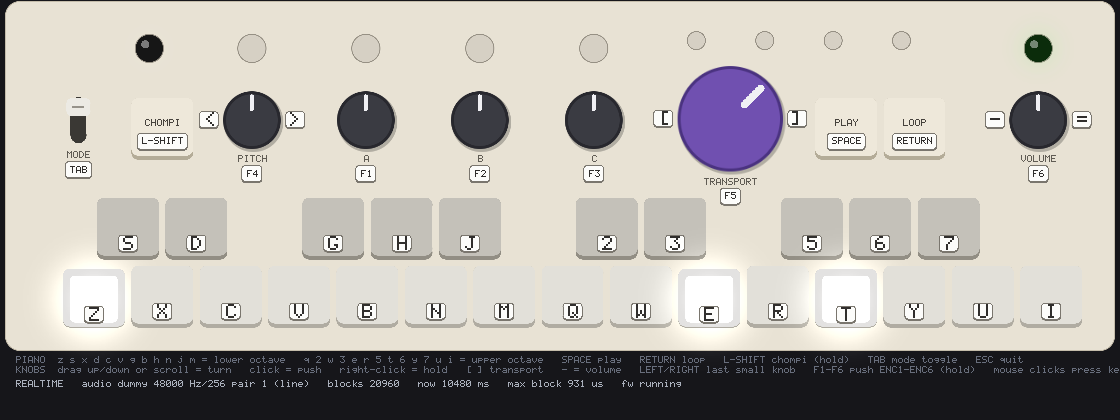
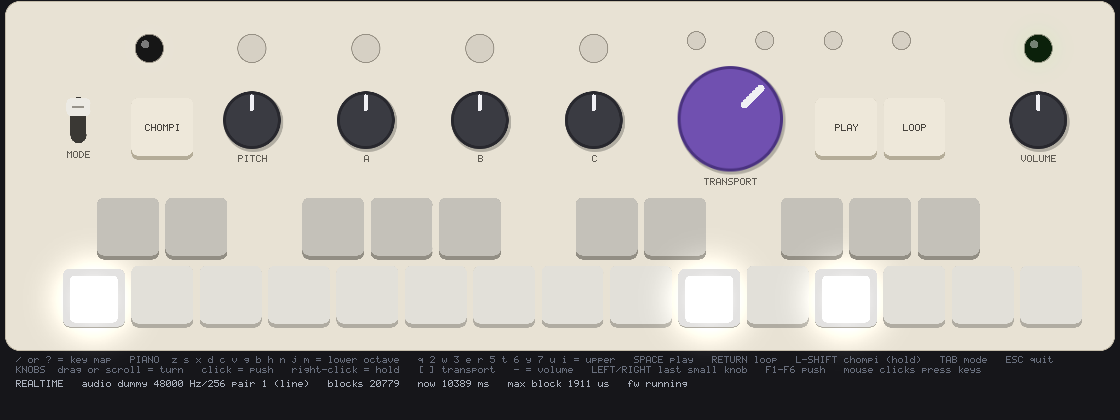
GUI: key map overlay with callouts and arrows, toggled with / or ?
The computer-key labels become an overlay: it shades the instrument, prints
each piano key's letter on its cap and draws a description box for every
switch and knob with an arrow from the box to the control. The boxes sit in
two free bands, above the LED row and between the knobs and the upper caps,
and arrows that would cross an LED leave the box off centre and land on the
knob's shoulder. The arrow-key note moves to the small knob touched last.
The overlay is shown at start, / or ? toggles it and --no-keymap starts
without it. Lines and arrows are runs of the anti-aliased disc sprite, so
no new dependency. Hint lines shortened to fit the window; screenshots
regenerated.

Claude-Session: https://claude.ai/code/session_01Dp3X1K9YrRtikm9LtFwPLs

diff --git a/frontends/sdl/panel.cpp b/frontends/sdl/panel.cpp
@@ -158,10 +158,15 @@ constexpr float kLogY    = 392;
 constexpr float kLogDy   = 10;
 constexpr float kTextX   = 16;
 
-const char* const kHint1 = "PIANO  z s x d c v g b h n j m = lower octave   q 2 w 3 e r 5 t 6 y 7 u i = upper octave   "
-                           "SPACE play   RETURN loop   L-SHIFT chompi (hold)   TAB mode toggle   ESC quit";
-const char* const kHint2 = "KNOBS  drag up/down or scroll = turn   click = push   right-click = hold   [ ] transport   - = volume   "
-                           "LEFT/RIGHT last small knob   F1-F6 push ENC1-ENC6 (hold)   mouse clicks press keys";
+const char* const kHint1 = "/ or ? = key map   PIANO  z s x d c v g b h n j m = lower octave   q 2 w 3 e r 5 t 6 y 7 u i = upper   "
+                           "SPACE play   RETURN loop   L-SHIFT chompi (hold)   TAB mode   ESC quit";
+const char* const kHint2 = "KNOBS  drag or scroll = turn   click = push   right-click = hold   [ ] transport   - = volume   "
+                           "LEFT/RIGHT last small knob   F1-F6 push   mouse clicks press keys";
+/** Hint lines while the key map overlay is up. */
+const char* const kMapHint1 = "KEY MAP   the letters on the caps play the notes (two octaves)   LEFT/RIGHT arrows turn the small knob "
+                              "touched last   / or ? hides this map";
+const char* const kMapHint2 = "MOUSE   click or hold any key   drag up/down or scroll on a knob = turn   click a knob = push   "
+                              "right-click = hold   ESC quit";
 
 // ---------------------------------------------------------------------------
 // Colours: a cream enclosure with white caps, like the instrument. No artwork
@@ -195,11 +200,18 @@ constexpr SDL_Color kToggleGrip  = {150, 146, 138, 255};
 constexpr SDL_Color kHintColor   = {104, 110, 124, 255};
 constexpr SDL_Color kStatusColor = {170, 176, 188, 255};
 constexpr SDL_Color kLogColor    = {120, 170, 226, 255};
-constexpr SDL_Color kChipFace    = {252, 252, 250, 255};
-constexpr SDL_Color kChipEdge    = {122, 118, 110, 255};
-constexpr SDL_Color kChipText    = {48, 46, 44, 255};
-constexpr float     kChipH       = 18.f; /**< height of a computer-key chip */
+
+/** Key map overlay: dark boxes with light names and amber keys and arrows. */
+constexpr SDL_Color kMapBox      = {30, 32, 40, 242};
+constexpr SDL_Color kMapEdge     = {118, 122, 138, 255};
+constexpr SDL_Color kMapText     = {236, 236, 230, 255};
+constexpr SDL_Color kMapKey      = {255, 212, 118, 255};
+constexpr SDL_Color kMapArrow    = {255, 186, 76, 255};
+constexpr uint8_t   kMapDim      = 64;   /**< alpha of the shade over the instrument */
+constexpr float     kChipH       = 18.f; /**< height of a computer-key chip on a cap */
 constexpr float     kLabelH      = 7.f;  /**< height of the 1 px label font */
+constexpr float     kMapPad      = 4.f;  /**< padding inside a callout box */
+constexpr float     kMapLineGap  = 3.f;  /**< gap between the two lines of a callout */
 
 SDL_Color Scaled(SDL_Color c, float f)
 {
@@ -308,6 +320,32 @@ class Canvas
         DrawText(r_, dx, int(std::lround(y * scale_)), dpx, c, s);
     }
 
+    /** A line of width w, drawn as a run of discs so it is anti-aliased. */
+    void Line(float x1, float y1, float x2, float y2, float w, SDL_Color c)
+    {
+        float dx = x2 - x1, dy = y2 - y1, len = std::sqrt(dx * dx + dy * dy);
+        int   n = std::max(1, int(std::ceil(len / 0.75f)));
+        for(int i = 0; i <= n; i++)
+        {
+            float t = float(i) / float(n);
+            Disc(x1 + dx * t, y1 + dy * t, w / 2, c);
+        }
+    }
+
+    /** An arrow from a dot at (x1, y1) to a tip at (x2, y2). */
+    void Arrow(float x1, float y1, float x2, float y2, SDL_Color c)
+    {
+        float dx = x2 - x1, dy = y2 - y1, len = std::sqrt(dx * dx + dy * dy);
+        if(len < 1.f)
+            return;
+        float           ux = dx / len, uy = dy / len;
+        constexpr float h = 8.f, s = 0.5f; // head length and half-width
+        Line(x1, y1, x2 - ux * 3.f, y2 - uy * 3.f, 2.f, c);
+        Line(x2, y2, x2 - ux * h - uy * h * s, y2 - uy * h + ux * h * s, 2.f, c);
+        Line(x2, y2, x2 - ux * h + uy * h * s, y2 - uy * h - ux * h * s, 2.f, c);
+        Disc(x1, y1, 2.5f, c);
+    }
+
   private:
     static constexpr int   kSprite    = 128;
     static constexpr float kDiscR     = 60.f;
@@ -409,22 +447,6 @@ void DrawLed(Canvas& cv, float cx, float cy, float r, Rgb c)
     cv.Disc(cx - r * 0.3f, cy - r * 0.3f, r * 0.3f, SDL_Color{255, 255, 255, 110});
 }
 
-/** The computer key for a control: a small key-shaped chip with the key's
- *  name, centred on (cx, cy). A single character is drawn large, a key name
- *  small. */
-void DrawKeyChip(Canvas& cv, float cx, float cy, const char* name)
-{
-    if(!name || !*name)
-        return;
-    const std::string s(name);
-    const int         px = s.size() == 1 ? 2 : 1;
-    const float       tw = float(TextWidth(s, px)), th = float(TextHeight(px));
-    const float       w  = std::max(kChipH, tw + 10.f);
-    cv.RoundRect(cx - w / 2, cy - kChipH / 2, w, kChipH, 4.f, kChipEdge);
-    cv.RoundRect(cx - w / 2 + 1, cy - kChipH / 2 + 1, w - 2, kChipH - 3, 3.f, kChipFace);
-    cv.Text(cx, cy - th / 2 - 1, px, kChipText, s, 0);
-}
-
 void DrawPianoKeys(Canvas& cv, const UiState& st)
 {
     for(int semi = 0; semi < 25; semi++)
@@ -448,7 +470,6 @@ void DrawPianoKeys(Canvas& cv, const UiState& st)
             cv.RoundRect(r.x + in, r.y + in + dy, r.w - 2 * in, r.h - 2 * in - kKeyLipH + (pressed ? 3.f : 0.f), kCapRad - 2, lit);
             cv.Glow(r.x + r.w / 2, r.y + r.h / 2 + dy, r.w * 0.55f, led, 0.5f, true);
         }
-        DrawKeyChip(cv, r.x + r.w / 2, r.y + r.h - kKeyLipH - kChipH / 2 - 3 + dy, kPianoKeyNames[semi]);
     }
 }
 
@@ -471,23 +492,8 @@ void DrawKnob(Canvas& cv, const KnobDef& k, const UiState& st)
     for(float t = 0.38f; t <= 0.86f; t += 0.04f)
         cv.Disc(cx + sx * t * r, cy + sy * t * r, pw, kPointer);
 
-    cv.Text(cx, cy + R + 6, 1, kLabel, k.label, 0);
-
-    // computer keys: the push key under the label, the turn keys either side
-    // of the knob (the arrow keys follow the small knob touched last)
-    DrawKeyChip(cv, cx, cy + R + 6 + kLabelH + kChipH / 2 + 3, k.push_key);
-    const char* ccw = k.ccw_key;
-    const char* cw  = k.cw_key;
-    if(!ccw && st.arrow_knob == k.enc)
-    {
-        ccw = "<";
-        cw  = ">";
-    }
-    if(ccw && cw)
-    {
-        DrawKeyChip(cv, cx - R - kChipH * 0.8f, cy, ccw);
-        DrawKeyChip(cv, cx + R + kChipH * 0.8f, cy, cw);
-    }
+    if(!st.keymap) // the key map names the knobs in its callouts
+        cv.Text(cx, cy + R + 6, 1, kLabel, k.label, 0);
 }
 
 void DrawFuncKey(Canvas& cv, const FuncKeyDef& f, const UiState& st)
@@ -497,8 +503,7 @@ void DrawFuncKey(Canvas& cv, const FuncKeyDef& f, const UiState& st)
     bool      hover   = st.hover == Hit{HitKind::FuncKey, f.button};
     float     dy      = pressed ? kKeyPressDy : 0.f;
     DrawKeyCap(cv, r, kFuncFace, kFuncSide, pressed, hover);
-    cv.Text(r.x + r.w / 2, r.y + r.h / 2 - 10 + dy, 1, kFuncText, f.label, 0);
-    DrawKeyChip(cv, r.x + r.w / 2, r.y + r.h / 2 + 13 + dy, f.key);
+    cv.Text(r.x + r.w / 2, r.y + r.h / 2 - 5 + dy, 1, kFuncText, f.label, 0);
 }
 
 void DrawToggle(Canvas& cv, const UiState& st)
@@ -511,14 +516,14 @@ void DrawToggle(Canvas& cv, const UiState& st)
     float ty = down ? cy + t.h / 2 - t.thumb_h - 1 : cy - t.h / 2 + 1;
     cv.RoundRect(cx - t.thumb_w / 2, ty, t.thumb_w, t.thumb_h, 5, hover ? Scaled(kToggleThumb, 1.04f) : kToggleThumb);
     cv.FillRect(cx - t.thumb_w / 2 + 6, ty + t.thumb_h / 2 - 1, t.thumb_w - 12, 2, kToggleGrip);
-    cv.Text(cx, cy + t.h / 2 + 8, 1, kLabel, "MODE", 0);
-    DrawKeyChip(cv, cx, cy + t.h / 2 + 8 + kLabelH + kChipH / 2 + 3, "TAB");
+    if(!st.keymap)
+        cv.Text(cx, cy + t.h / 2 + 8, 1, kLabel, "MODE", 0);
 }
 
 void DrawTextArea(Canvas& cv, const UiState& st)
 {
-    cv.Text(kTextX, kHintY1, 1, kHintColor, kHint1);
-    cv.Text(kTextX, kHintY2, 1, kHintColor, kHint2);
+    cv.Text(kTextX, kHintY1, 1, kHintColor, st.keymap ? kMapHint1 : kHint1);
+    cv.Text(kTextX, kHintY2, 1, kHintColor, st.keymap ? kMapHint2 : kHint2);
     cv.Text(kTextX, kStatusY, 1, kStatusColor, st.status);
     float y = kLogY;
     for(const std::string& line : st.log)
@@ -526,6 +531,98 @@ void DrawTextArea(Canvas& cv, const UiState& st)
         cv.Text(kTextX, y, 1, kLogColor, "> " + line);
         y += kLogDy;
     }
+}
+
+// ---------------------------------------------------------------------------
+// Key map overlay: the computer keys, drawn over a shaded instrument. The
+// piano caps carry their letters; every other control gets a description box
+// with an arrow to it.
+// ---------------------------------------------------------------------------
+
+/** A key-shaped chip with a computer key's name, centred on (cx, cy). A
+ *  single character is drawn large, a key name small. */
+void DrawKeyChip(Canvas& cv, float cx, float cy, const char* name)
+{
+    if(!name || !*name)
+        return;
+    const std::string s(name);
+    const int         px = s.size() == 1 ? 2 : 1;
+    const float       tw = float(TextWidth(s, px)), th = float(TextHeight(px));
+    const float       w  = std::max(kChipH, tw + 10.f);
+    cv.RoundRect(cx - w / 2 - 1, cy - kChipH / 2 - 1, w + 2, kChipH + 2, 5.f, kMapEdge);
+    cv.RoundRect(cx - w / 2, cy - kChipH / 2, w, kChipH, 4.f, kMapBox);
+    cv.Text(cx, cy - th / 2, px, kMapKey, s, 0);
+}
+
+/** A description box (name, keys) with an arrow from one of its edges to a
+ *  point on the control. */
+struct Callout
+{
+    std::string name;
+    std::string keys;
+    float       cx;    /**< box centre x */
+    float       top;   /**< box top y */
+    float       ax;    /**< x where the arrow leaves the box */
+    bool        below; /**< the arrow leaves the bottom edge (else the top edge) */
+    float       tx, ty; /**< arrow tip */
+};
+
+void DrawCallout(Canvas& cv, const Callout& c)
+{
+    const float w = float(std::max(TextWidth(c.name, 1), TextWidth(c.keys, 1))) + 2 * kMapPad + 2;
+    const float h = 2 * kLabelH + kMapLineGap + 2 * kMapPad;
+    const float x = c.cx - w / 2;
+    cv.RoundRect(x - 1, c.top - 1, w + 2, h + 2, 5.f, kMapEdge);
+    cv.RoundRect(x, c.top, w, h, 4.f, kMapBox);
+    cv.Text(c.cx, c.top + kMapPad, 1, kMapText, c.name, 0);
+    cv.Text(c.cx, c.top + kMapPad + kLabelH + kMapLineGap, 1, kMapKey, c.keys, 0);
+    cv.Arrow(c.ax, c.below ? c.top + h + 1 : c.top - 1, c.tx, c.ty, kMapArrow);
+}
+
+void DrawKeyMap(Canvas& cv, const UiState& st)
+{
+    cv.FillRect(kBody.x, kBody.y, kBody.w, kBody.h, SDL_Color{0, 0, 0, kMapDim});
+
+    for(int semi = 0; semi < 25; semi++)
+    {
+        SDL_FRect r  = PianoKeyRect(semi);
+        float     dy = Sim::Get().ButtonPressed(kPianoKeys[semi]) ? kKeyPressDy : 0.f;
+        DrawKeyChip(cv, r.x + r.w / 2, r.y + r.h - kKeyLipH - kChipH / 2 - 3 + dy, kPianoKeyNames[semi]);
+    }
+
+    // Boxes sit in two free bands: above the LED row and between the knobs
+    // and the upper caps. Arrows that would cross an LED leave the box off
+    // centre and land on the knob's shoulder.
+    constexpr float kBandTop = 5.f;
+    constexpr float kBandMid = 164.f;
+    std::vector<Callout> callouts;
+    {
+        const ToggleDef& t = kToggle;
+        callouts.push_back({"MODE switch", "TAB (latches)", 60.f, kBandTop, 72.f, true, X(t.x_mm), Y(t.y_mm) - t.h / 2 - 3});
+    }
+    for(const FuncKeyDef& f : kFuncKeys)
+    {
+        SDL_FRect r  = FuncKeyRect(f);
+        float     cx = r.x + r.w / 2;
+        float     ax = cx + (f.button == KEY_CHOMPI ? 16.f : 6.f);
+        callouts.push_back({f.label, f.key, cx + (f.button == KEY_CHOMPI ? 4.f : 0.f), kBandTop, ax, true, ax, r.y - 2});
+    }
+    for(const KnobDef& k : kKnobs)
+    {
+        float       cx = X(k.x_mm), cy = Y(k.y_mm), R = k.r_mm * kMmPx;
+        std::string keys = k.ccw_key ? std::string(k.ccw_key) + " " + k.cw_key + " turn  " + k.push_key + " push"
+                                     : std::string(k.push_key) + " push";
+        if(!k.ccw_key && st.arrow_knob == k.enc)
+            keys += "  < > turn";
+        if(k.enc == ENC_SW4 || k.enc == ENC_SW2 || k.enc == ENC_SW6)
+            callouts.push_back({k.label, keys, cx, kBandMid, cx, false, cx, cy + R + 2});
+        else if(k.big)
+            callouts.push_back({k.label, keys, cx, kBandTop, cx, true, cx, cy - R - 2});
+        else
+            callouts.push_back({k.label, keys, cx, kBandTop, cx + 28.f, true, cx + R * 0.5f + 1, cy - R * 0.866f - 1});
+    }
+    for(const Callout& c : callouts)
+        DrawCallout(cv, c);
 }
 
 } // namespace
@@ -550,6 +647,8 @@ void Panel::Draw(const UiState& st)
     for(int i = 0; i < kNumPanelLeds; i++)
         DrawLed(cv, X(kPanelLeds[i].x_mm), Y(kPanelLeds[i].y_mm), kPanelLeds[i].r_mm * kMmPx, Sim::Get().PanelLed(i));
     DrawToggle(cv, st);
+    if(st.keymap)
+        DrawKeyMap(cv, st);
     DrawTextArea(cv, st);
 }
 

diff --git a/frontends/sdl/main.cpp b/frontends/sdl/main.cpp
@@ -31,6 +31,7 @@ struct Options
     double      exit_after = -1; /**< seconds, < 0 = run until closed */
     float       scale      = 1.f;
     int         pair       = 1; /**< output pair for the sound card: 0 hp, 1 line */
+    bool        keymap     = true; /**< start with the key map overlay shown */
 };
 
 constexpr float  kDegreesPerDetent = 15.f; /**< 24 detents per turn */
@@ -48,6 +49,7 @@ void PrintUsage(const char* argv0)
                 "  --exit-after <sec>    quit after that many seconds\n"
                 "  --scale <float>       window scale (default 1.0)\n"
                 "  --pair <0|1>          output pair for the sound card: 0 headphones, 1 line out (default 1)\n"
+                "  --no-keymap           start without the key map overlay (/ or ? toggles it)\n"
                 "  --help                this text\n",
                 argv0);
 }
@@ -75,6 +77,8 @@ int ParseArgs(int argc, char** argv, Options& o)
         }
         else if(a == "--no-audio")
             o.no_audio = true;
+        else if(a == "--no-keymap")
+            o.keymap = false;
         else if(a == "--card")
         {
             if(!value(v))
@@ -248,7 +252,7 @@ bool SaveScreenshot(SDL_Renderer* r, const std::string& path)
 class App
 {
   public:
-    explicit App(const Options& o) : opt_(o), pair_(o.pair) {}
+    explicit App(const Options& o) : opt_(o), pair_(o.pair) { ui_.keymap = o.keymap; }
     ~App() { Shutdown(); }
 
     int Run()
@@ -493,6 +497,11 @@ class App
             input_.KeyboardButton(KEY_CHOMPI, down);
         else if(k == SDLK_TAB && down)
             Sim::Get().SetToggle(!Sim::Get().ToggleDown());
+        else if((k == SDLK_SLASH || k == SDLK_QUESTION) && down)
+        {
+            ui_.keymap = !ui_.keymap;
+            Debug("keymap %s", ui_.keymap ? "on" : "off");
+        }
         else if(k >= SDLK_F1 && k <= SDLK_F6)
         {
             int e2 = int(k - SDLK_F1); // F1..F6 = ENC_SW1..ENC_SW6

diff --git a/frontends/sdl/panel.h b/frontends/sdl/panel.h
@@ -47,6 +47,7 @@ struct UiState
     std::array<float, chompi_sim::kNumEncoders> knob_angle{};   /**< degrees, clockwise positive */
     std::array<bool, chompi_sim::kNumEncoders>  knob_pressed{}; /**< encoder push switches */
     int                                          arrow_knob = -1; /**< small knob the Left/Right arrow keys turn */
+    bool                                         keymap = true;   /**< draw the key map overlay */
     Hit                                          hover;         /**< control under the mouse */
     std::string                                  status;        /**< status line */
     std::vector<std::string>                     log;           /**< last firmware log lines, oldest first */

diff --git a/README.md b/README.md
@@ -85,10 +85,11 @@ the mode switch is drawn where the board puts it.
      [z] [x] [c] [v] [b] [n] [m] [q] [w] [e] [r] [t] [y] [u] [i]               <- lower row of caps
 ```
 
-Each key cap is lit by the LED under it. Every control carries a small
-key-shaped chip with the computer key that works it; the arrow-key chips sit
-beside whichever small knob was touched last. No artwork or logos are
-reproduced.
+Each key cap is lit by the LED under it. A key map overlay, shown at start
+and toggled with `/` or `?`, shades the instrument, prints each piano key's
+letter on its cap and draws a description box with an arrow to every switch
+and knob; the arrow-key note moves to whichever small knob was touched last.
+No artwork or logos are reproduced.
 
 | Control | Computer |
 |---|---|
@@ -101,6 +102,7 @@ reproduced.
 | Transport knob / volume knob | `[` `]` / `-` `=` |
 | Last touched small knob | Left / Right arrows |
 | Push encoders SW1 to SW6 | F1 to F6 |
+| Key map overlay | `/` or `?` (toggle; `--no-keymap` starts without it) |
 | Quit | Escape |
 
 The knobs do what the firmware makes them do. In WAVE the PITCH knob is a fine
@@ -114,7 +116,8 @@ Shift`) and press the first black key (`s`) for an octave down or the second
 
 Command line: `--card DIR` (default `card`), `--no-audio` (run without a sound
 card), `--pair 0|1` (send the headphone or the line output to the sound card,
-default line), `--scale F`, `--screenshot FILE.bmp`, `--exit-after SECONDS`.
+default line), `--scale F`, `--screenshot FILE.bmp`, `--exit-after SECONDS`,
+`--no-keymap`.
 
 The output of the firmware is quiet at the WAVE defaults (the final compressor
 is a menu-page setting); turn the volume knob up or use the firmware's menu, as
@@ -157,9 +160,9 @@ a script.
 WAVE factory card, plays a note from the keybed and one over MIDI and checks
 the audio, the MIDI output and the key LED. `docs/demo-wave-factory-card.wav`
 was rendered this way from `examples/demo.txt` (normalised afterwards).
-`docs/gui-wave.png` and `docs/gui-tape.png` show the window with the real
-firmwares holding a C major chord; `docs/gui-stub.png` is the same window on
-the stand-in core used to develop the front-end.
+`docs/gui-wave.png` shows the window with the key map overlay and WAVE holding
+a C major chord, `docs/gui-tape.png` the plain panel with TAPE holding the same
+chord, and `docs/gui-stub.png` the stand-in core used to develop the front-end.
 
 ## How it works
 
